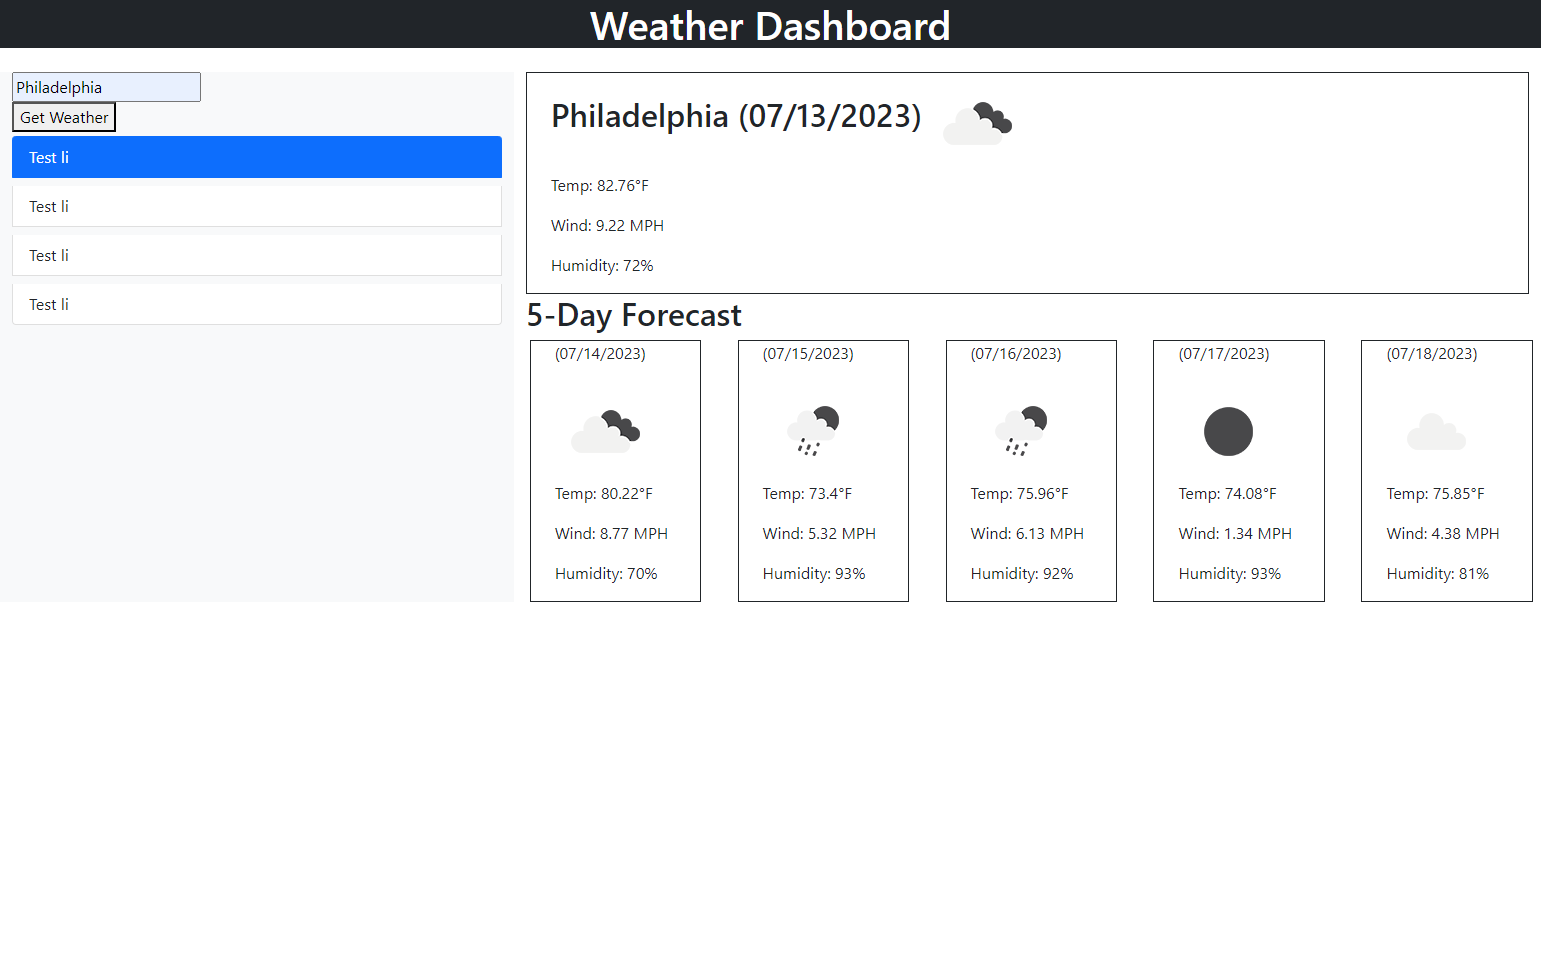
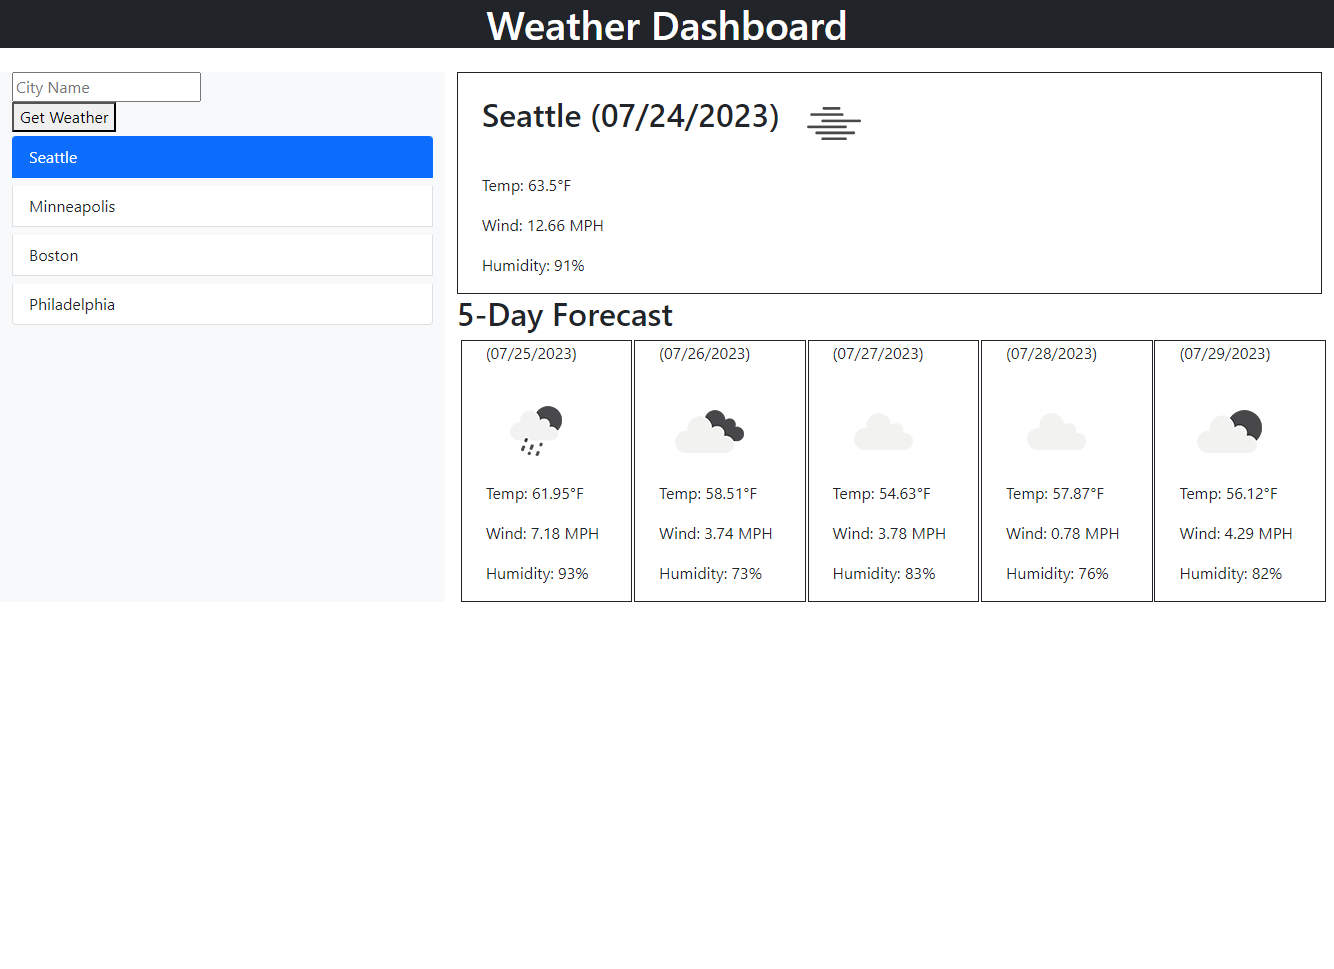
updated screenshot, updated README, removed unused style.css sheet

diff --git a/README.md b/README.md
@@ -1,7 +1,19 @@
 # <Challenge 6: Weather Dashboard>
 
+## Description
 
-At time of publication, the project can be found deployed at https://dopalescent.github.io/Weather-Dashboard/
+- In this project, we were tasked with building a weather dashboard that would run in the browser and feature dynamically updated HTML and CSS.
+- One component of this project required us to fetch, parse, and properly utilize data from a server-side API to get current weather data from a target city.
+- The project's webpage had to be designed to accommodate the display of varying information. The data returned from our API call had to be fed to the correct parts of the weather display such that each search would show the corresponding results. These searches themselves had to be displayed such that they were both accessible for recall and consistent with the current search history, and even had to account for duplicate entries.
+- This project appeared deceptively simple and, while the components are simple and few in number, the code they needed involved many interdependent moving parts. Completing this project to meet this high standard truly feels like an accomplishment.
+
+## Usage
+
+- To use the weather dashboard, first navigate to the webpage. At time of publication, the project can be found deployed at https://dopalescent.github.io/Weather-Dashboard/
+- Once there, you should see an input bar with placeholder text reading "City Name" with a button directly below it reading "Get Weather". Aside from these two things and the banner above, the page should otherwise be empty.
+- Type the name of a United States city into the input bar. Choosing major US cities or cities with unique names will yield more consistent results. At this stage of development no mechanisms for catching typos have been implemented, so correct spelling is required. (Note: attempting to click the "Get Weather" button with an empty input bar will not yield any changes.)
+- Once you have typed in a city name, a blue card should appear below the "Get Weather" button with the name of the searched city. To the right will be a large card listing the searched city's name, the current date, and an icon representing current weather conditions, with information for temperature, wind, and humidity. The "5-Day Forecast" section below will have smaller cards for the 5 days following the current date, each with the same weather information as above for the given date.
+- Each additional city name searched will be added to the top of a list of cards below the "Get Weather" button witout duplicates. The card whose city is currently being displayed will be blue, and any others will be white. Clicking on any of these cards will call up the weather display for the corresponding city. This list of search history cards is saved to local storage each time a city's weather information is called. Reloading the page will reset the display to its original state, with the addition of a list of search history cards retrieved from local storage, and the weather display will not reappear until a city's information is called again.
 
 
 - The following screenshot previews the deployed project:
